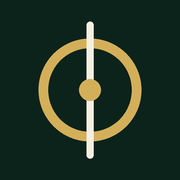
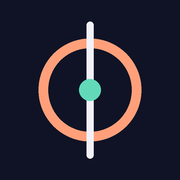
Nova paleta "Amanhecer": índigo, pêssego-coral e verde-água; novos ícones e splash
Claude-Session: https://claude.ai/code/session_01N9JGynBfTZp42Rcz2hrXxy

Changed region(s): [[0.1944, 0.1944, 0.8056, 0.8056], [0.4167, 0.4167, 0.5833, 0.5833]]

diff --git a/src/index.css b/src/index.css
@@ -3,32 +3,33 @@
 @tailwind utilities;
 
 @layer base {
+  /* Paleta "Amanhecer": índigo calmo + pêssego/coral (otimismo, energia) + verde-água (equilíbrio, renovação) */
   :root {
-    /* modo claro: creme + verde-escuro + marrom */
-    --fundo: 245 239 226;
-    --superficie: 255 252 245;
-    --elevado: 236 227 207;
-    --borda: 221 207 180;
-    --texto: 18 44 34;
-    --suave: 107 79 58;
-    --ouro: 168 128 36;
-    --ouro-forte: 140 104 24;
-    --verde: 30 122 74;
-    --perigo: 186 62 42;
+    /* modo claro: branco-pérola + índigo + coral */
+    --fundo: 247 246 252;
+    --superficie: 255 255 255;
+    --elevado: 237 235 247;
+    --borda: 221 218 236;
+    --texto: 27 30 58;
+    --suave: 96 100 138;
+    --ouro: 196 82 56;
+    --ouro-forte: 172 68 44;
+    --verde: 15 128 106;
+    --perigo: 200 52 84;
     color-scheme: light;
   }
   .dark {
-    /* modo escuro (padrão): verde-escuro profundo + dourado */
-    --fundo: 9 30 23;
-    --superficie: 16 44 34;
-    --elevado: 23 58 45;
-    --borda: 38 77 61;
-    --texto: 245 239 226;
-    --suave: 196 176 146;
-    --ouro: 214 178 94;
-    --ouro-forte: 236 202 120;
-    --verde: 98 202 138;
-    --perigo: 240 118 96;
+    /* modo escuro (padrão): céu índigo antes do nascer do sol */
+    --fundo: 16 19 37;
+    --superficie: 25 29 53;
+    --elevado: 35 40 70;
+    --borda: 51 57 93;
+    --texto: 242 241 250;
+    --suave: 170 174 208;
+    --ouro: 255 160 122;
+    --ouro-forte: 255 184 152;
+    --verde: 98 218 186;
+    --perigo: 255 112 134;
     color-scheme: dark;
   }
 

diff --git a/index.html b/index.html
@@ -4,7 +4,7 @@
     <meta charset="UTF-8" />
     <link rel="icon" type="image/svg+xml" href="/favicon.svg" />
     <meta name="viewport" content="width=device-width, initial-scale=1.0, viewport-fit=cover" />
-    <meta name="theme-color" content="#0b231b" />
+    <meta name="theme-color" content="#101325" />
     <meta name="description" content="No Eixo — treino, alimentação, rotina e hábitos." />
     <meta name="apple-mobile-web-app-capable" content="yes" />
     <meta name="mobile-web-app-capable" content="yes" />

diff --git a/src/app/App.tsx b/src/app/App.tsx
@@ -57,7 +57,7 @@ function Guardiao({ children }: { children: ReactNode }) {
     } catch {
       /* ok */
     }
-    document.querySelector('meta[name="theme-color"]')?.setAttribute('content', escuro ? '#091e17' : '#f5efe2');
+    document.querySelector('meta[name="theme-color"]')?.setAttribute('content', escuro ? '#101325' : '#f7f6fc');
   }, [config]);
   if (!perfil || !config) return <Carregando />;
   if (!perfil.onboardingFeito && !pathname.startsWith('/boas-vindas')) return <Navigate to="/boas-vindas" replace />;

diff --git a/vite.config.ts b/vite.config.ts
@@ -15,8 +15,8 @@ export default defineConfig({
         short_name: 'No Eixo',
         description: 'Treino, alimentação, rotina e hábitos para ficar no eixo.',
         lang: 'pt-BR',
-        theme_color: '#0b231b',
-        background_color: '#0b231b',
+        theme_color: '#101325',
+        background_color: '#101325',
         display: 'standalone',
         orientation: 'portrait',
         start_url: '/',

diff --git a/tailwind.config.js b/tailwind.config.js
@@ -15,8 +15,6 @@ export default {
         'ouro-forte': 'rgb(var(--ouro-forte) / <alpha-value>)',
         verde: 'rgb(var(--verde) / <alpha-value>)',
         perigo: 'rgb(var(--perigo) / <alpha-value>)',
-        creme: '#f5efe2',
-        marrom: '#6b4f3a',
       },
       fontFamily: {
         sans: ['Inter', 'system-ui', '-apple-system', 'BlinkMacSystemFont', 'Segoe UI', 'sans-serif'],
